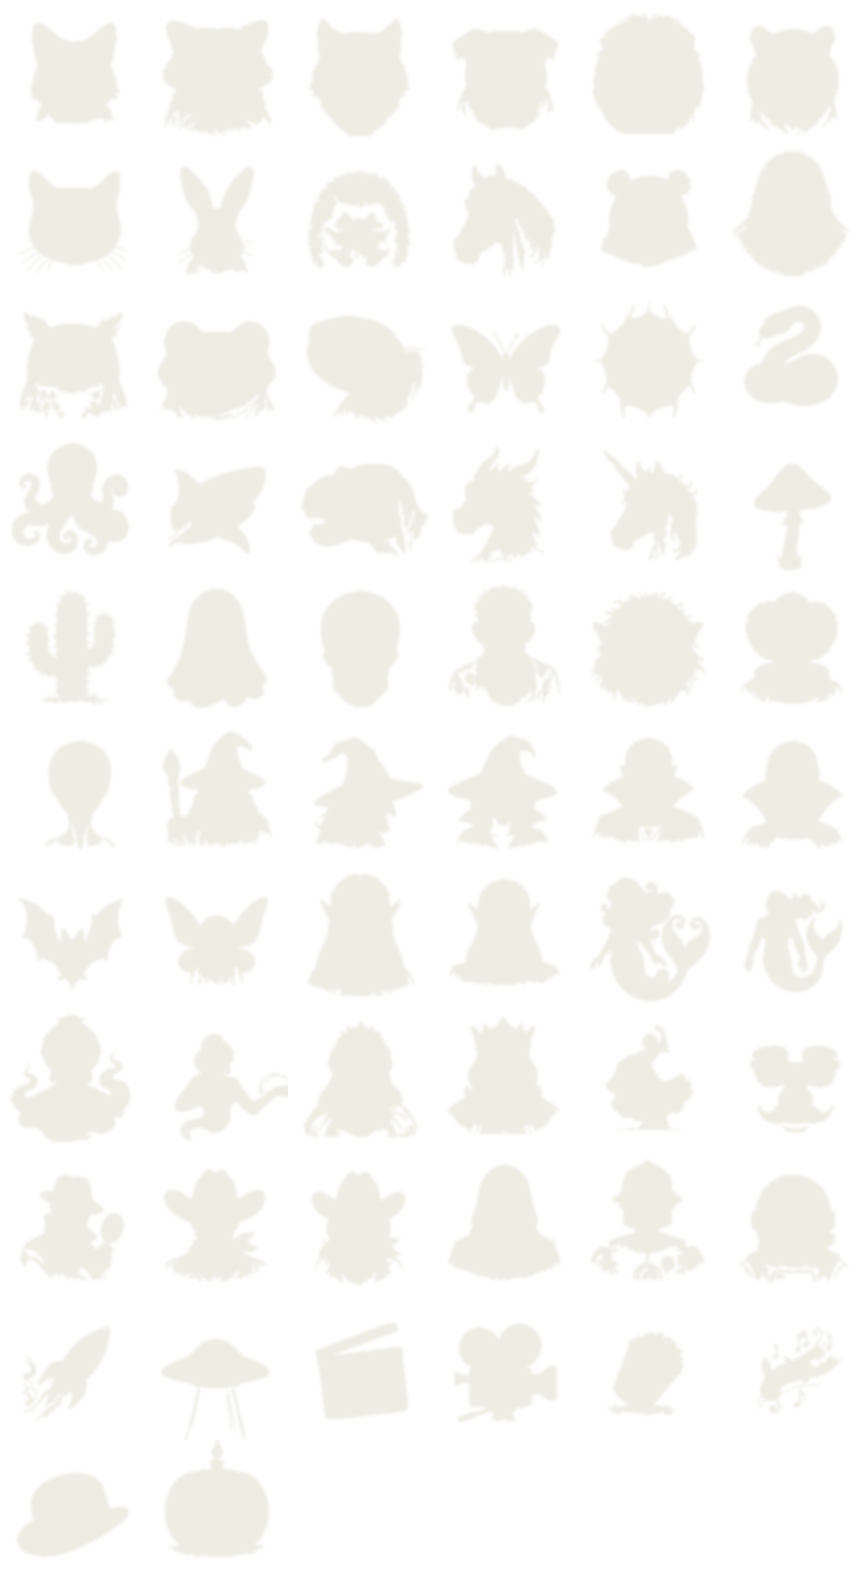
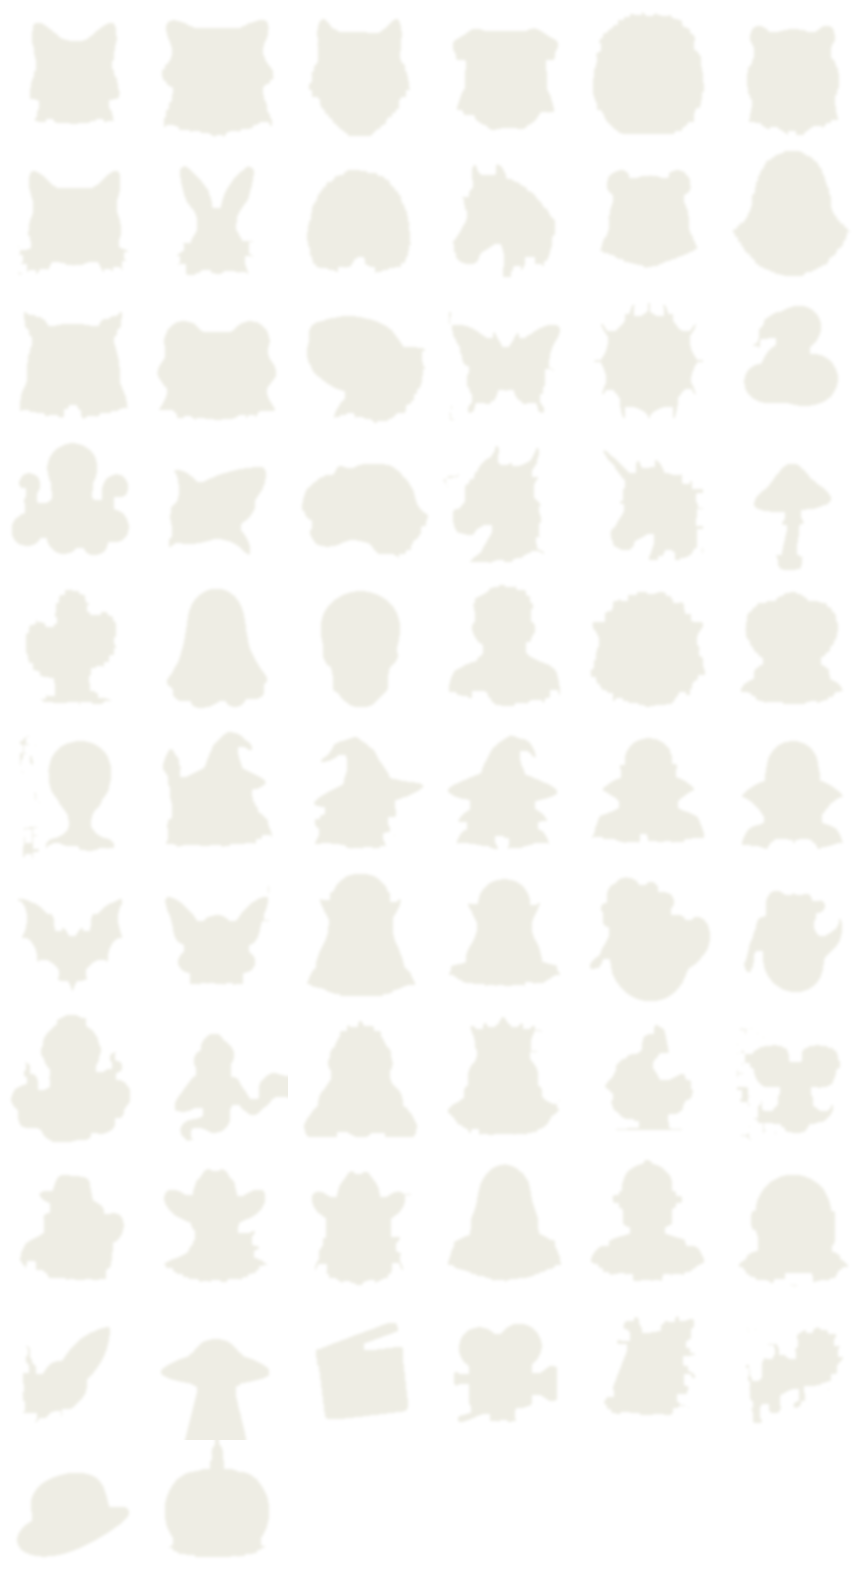
Seal the paper where the outline is open, and make black actually black (v0.45.1)
The flood that derives the paper shape leaks into the subject wherever the
outline is not closed, and the missing paper shows as a bite. Two causes: an
outline drawn in broken strokes (the hedgehog's muzzle) and a subject that runs
off its own cell (the horse's neck, the fox's collar). The ink is now closed by
a dilate/erode pass before flooding, and any border the subject crosses is
sealed between its outermost ink pixels - these are single centred subjects, so
that span is subject rather than background.

Specks of grit are also removed from the ink sheet itself now, not just from the
paper derived from it. They were invisible on a light card and became blotches
on a dark one once each speck was handed its own scrap of paper.

The near-black palette entry moves from #3A3A4A to #1A1A26. Once the drawings
had their own paper the card no longer needed to be light, and #3A3A4A read as
a grey blob against the page rather than as black - neither black nor white,
which was the whole reason that slot existed.

diff --git a/index.html b/index.html
@@ -14,9 +14,9 @@
 <script src="https://cdn.jsdelivr.net/npm/@supabase/supabase-js@2"></script>
 <!-- Versioned on purpose. index.html is served network-first while assets are
      cache-first, so without the query a fresh page could load a cached older
-     emoji.js - which is exactly what emptied the avatar picker after v0.45.0.
+     emoji.js - which is exactly what emptied the avatar picker after v0.45.1.
      Bump this with the release; sw.js precaches the same URL. -->
-<script src="./emoji.js?v=0.45.0"></script>
+<script src="./emoji.js?v=0.45.1"></script>
 <link rel="preconnect" href="https://fonts.googleapis.com">
 <link rel="preconnect" href="https://fonts.gstatic.com" crossorigin>
 <link href="https://fonts.googleapis.com/css2?family=Bebas+Neue&family=Oswald:wght@500;600;700&family=DM+Sans:wght@300;400;500;600&family=Noto+Sans+Georgian:wght@400;500;600;700&display=swap" rel="stylesheet">
@@ -2610,7 +2610,7 @@ button.is-pressed, .avatar-emoji-btn.is-pressed, .avatar-color-dot.is-pressed { 
         <div style="margin-top:6px" data-i18n="about_privacy" data-i18n-html="1">
           <a href="https://cinemail.app/privacy.html" target="_blank" rel="noopener" style="color:var(--accent-text);text-decoration:none">Privacy Policy</a>
         </div>
-        <div style="margin-top:8px;font-size:10px;color:var(--muted);opacity:0.7">Cinemail <span id="app-version">v0.45.0</span></div>
+        <div style="margin-top:8px;font-size:10px;color:var(--muted);opacity:0.7">Cinemail <span id="app-version">v0.45.1</span></div>
       </div>
 
       <div style="display:flex;gap:9px">
@@ -5066,7 +5066,8 @@ if (!_AVATAR_EMOJIS.length) {
 const _AVATAR_COLORS = [
   '#F5C518', // brand gold (default)
   '#EDEDF2', // brand white
-  '#3A3A4A', // brand dark grey (distinct from the #0d0d1a app background)
+  '#1A1A26', // near-black card. #3A3A4A read as a light grey blob on the page once the
+             // drawings sat on their own paper - it was neither black nor white.
   '#2E8B83', // deep teal (gold's near-complement)
   '#C8693B', // terracotta (warm, analogous to gold)
   '#B0455A', // wine rose

diff --git a/emoji.js b/emoji.js
@@ -7,11 +7,11 @@
 // Order is row-major, six per row, and must match the sheet exactly - a wrong index
 // silently shows the neighbouring character rather than failing, so ORDER below is the
 // single source of truth for both the picker and the avatar.
-const AVATAR_SPRITE = "./avatars.webp?v=0.45.0";     // the ink
+const AVATAR_SPRITE = "./avatars.webp?v=0.45.1";     // the ink
 // The subject's filled shape. With a sheet of paper under the drawing the card can be
 // the exact palette colour: the ink stays dark and legible on top of the paper, so the
 // colour never has to be lightened to carry it, and it never has to be inverted either.
-const AVATAR_FILL = "./avatars-fill.webp?v=0.45.0";
+const AVATAR_FILL = "./avatars-fill.webp?v=0.45.1";
 const AVATAR_COLS = 6;
 // Grouped, not arbitrary: the picker is 62 circles now, and it reads as sections -
 // animals, then creatures, then monsters, then magic folk, then people, then the

diff --git a/sw.js b/sw.js
@@ -1,5 +1,5 @@
 // ── Cache version — bump this string on every deploy to force refresh ──────────
-const CACHE_VERSION = "v168";
+const CACHE_VERSION = "v169";
 const CACHE_NAME = "cinemail-" + CACHE_VERSION;
 
 // Files to cache for offline use
@@ -10,9 +10,9 @@ const PRECACHE = [
   "./logo.png",
   "./icon.png",          // shown on the splash and all four auth screens, not just as the home-screen icon
   "./exceljs.min.js",
-  "./emoji.js?v=0.45.0",
-  "./avatars.webp?v=0.45.0",
-  "./avatars-fill.webp?v=0.45.0",
+  "./emoji.js?v=0.45.1",
+  "./avatars.webp?v=0.45.1",
+  "./avatars-fill.webp?v=0.45.1",
 ];
 
 // Minimal branded offline page — last-resort fallback so a home-screen launch with
